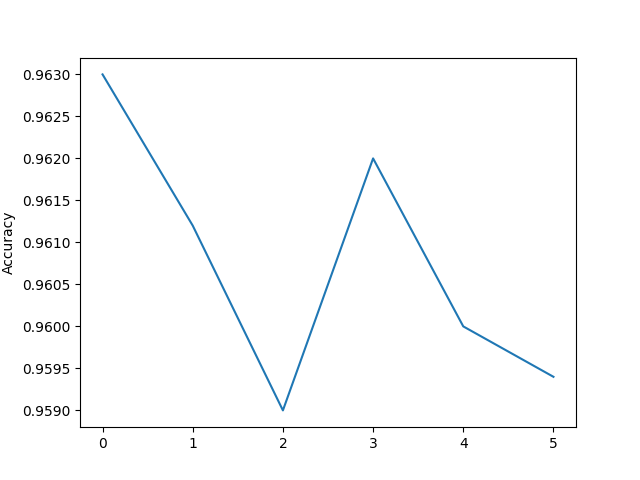
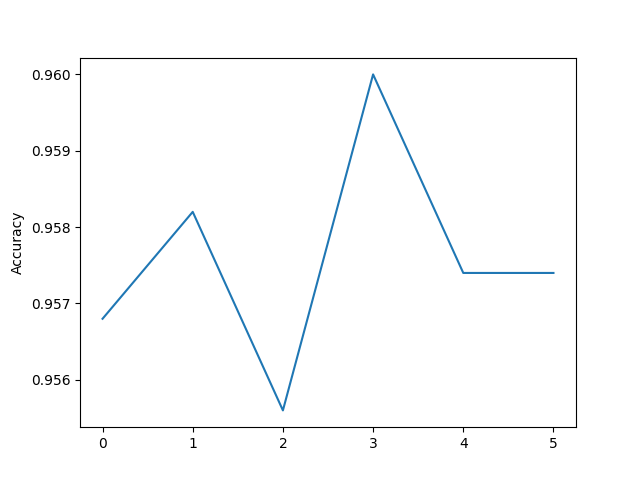
HW2 done, test all

diff --git a/autograder/hw2_autograder/mlp_scan.py b/autograder/hw2_autograder/mlp_scan.py
@@ -1,14 +1,15 @@
 import numpy as np
 
 from mytorch.nn.activations import ReLU
-# from mytorch.nn.conv import Conv1d, Flatten
-# from mytorch.nn.linear import Linear
-# from mytorch.nn.sequential import Sequential
-from mytorch.tensor import Tensor
+from mytorch.nn.functional import tensorize
 from mytorch.nn.module import *
 
+class CNN_:
+    def convert_weights(self, weight, parm):
+        out_ch, in_ch, ker_sz = parm
+        return tensorize(np.reshape(weight, (out_ch, ker_sz, in_ch)).transpose(0, 2, 1), True, True, True)
 
-class CNN_SimpleScanningMLP:
+class CNN_SimpleScanningMLP(CNN_):
     """Question 2.1: CNN as a Simple Scanning MLP
 
     Complete the indicated methods to convert the linear MLP described
@@ -18,14 +19,14 @@ class CNN_SimpleScanningMLP:
         # TODO: Initialize Conv1d layers with appropriate params (this is the hard part)
         # For reference, here's the arguments for Conv1d:
         #            Conv1d(in_channel, out_channel, kernel_size, stride)
-        self.conv1 = None
-        self.conv2 = None
-        self.conv3 = None
+        self.conv1 = Conv1d(24, 8, 8, 4)
+        self.conv2 = Conv1d(8, 16, 1, 1)
+        self.conv3 = Conv1d(16, 4, 1, 1)
 
         # TODO: Initialize Sequential object with layers based on the MLP architecture.
         # Note: Besides using Conv1d instead of Linear, there is a slight difference in layers.
         #       What's the difference and why?
-        self.layers = Sequential()
+        self.layers = Sequential(self.conv1, ReLU(), self.conv2, ReLU(), self.conv3, Flatten())
 
     def init_weights(self, weights):
         """Converts the given 3 weight matrices of the linear MLP into the weights of the Conv layers.
@@ -44,10 +45,8 @@ class CNN_SimpleScanningMLP:
         #      ex) self.conv1.out_channel, self.conv1.kernel_size, self.conv1.in_channel
 
         # Set the weight tensors with your converted MLP weights
-        self.conv1.weight = None
-        self.conv2.weight = None
-        self.conv3.weight = None
-
+        parms = [(i.out_channel, i.in_channel, i.kernel_size) for i in [self.conv1, self.conv2, self.conv3]]
+        self.conv1.weight, self.conv2.weight, self.conv3.weight = map(self.convert_weights, [w1, w2, w3], parms)
 
     def forward(self, x):
         """Do not modify this method
@@ -62,9 +61,8 @@ class CNN_SimpleScanningMLP:
     def __call__(self, x):
         """Do not modify this method"""
         return self.forward(x)
-
-
-class CNN_DistributedScanningMLP:
+    
+class CNN_DistributedScanningMLP(CNN_):
     """Question 2.2: CNN as a Distributed Scanning MLP
 
     Complete the indicated methods to convert the linear MLP described
@@ -73,12 +71,12 @@ class CNN_DistributedScanningMLP:
         # TODO: Initialize Conv1d layers
         # For reference, here's the arguments for Conv1d:
         #            Conv1d(in_channel, out_channel, kernel_size, stride)
-        self.conv1 = None
-        self.conv2 = None
-        self.conv3 = None
+        self.conv1 = Conv1d(24, 2, 2, 2)
+        self.conv2 = Conv1d(2, 8, 2, 2)
+        self.conv3 = Conv1d(8, 4, 2, 1)
 
         # TODO: Initialize Sequential object
-        self.layers = Sequential()
+        self.layers = Sequential(self.conv1, ReLU(), self.conv2, ReLU(), self.conv3, Flatten())
 
     def __call__(self, x):
         """Do not modify this method"""
@@ -93,11 +91,12 @@ class CNN_DistributedScanningMLP:
         w1, w2, w3 = weights
 
         # TODO: Convert the linear weights into Conv1d weights
-        # Make sure to not add nodes to the comp graph!
+        # Make sure to not add nodes to the comp graph! idk what this means
+        w1 = w1[0:2:,0:48]
+        w2 = w2[0:8:,0:4]
 
-        self.conv1.weight = None
-        self.conv2.weight = None
-        self.conv3.weight = None
+        parms = [(i.out_channel, i.in_channel, i.kernel_size) for i in [self.conv1, self.conv2, self.conv3]]
+        self.conv1.weight, self.conv2.weight, self.conv3.weight = map(self.convert_weights, [w1, w2, w3], parms)
 
     def forward(self, x):
         """Already completed for you.
